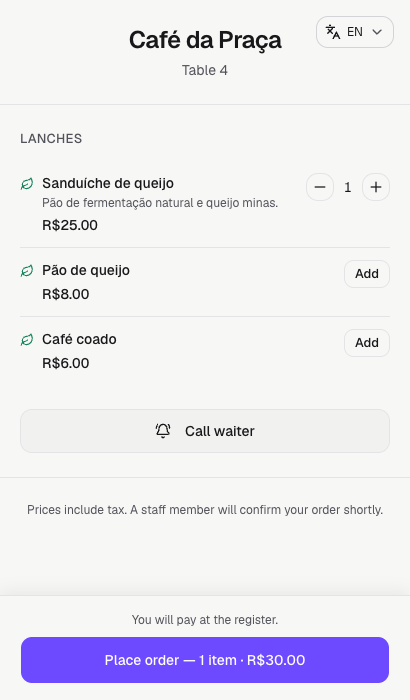
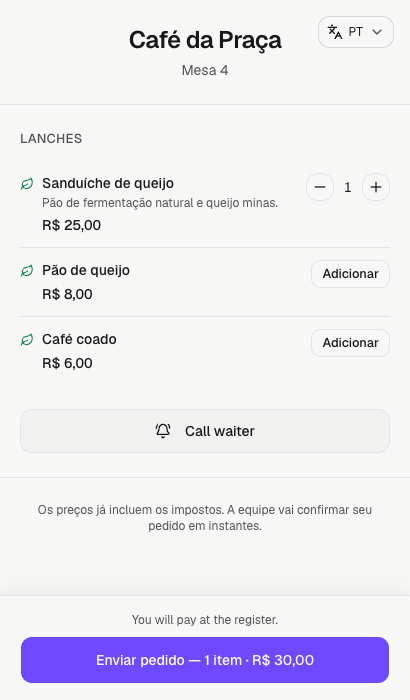
Format table QR prices in the guest’s selected language
The QR menu used the restaurant currency but fell back to English number formatting when a guest changed languages. Share the kiosk locale mapping and apply it to prices, add-ons and the cart total.

diff --git a/apps/web/app/order/[qrToken]/page.tsx b/apps/web/app/order/[qrToken]/page.tsx
@@ -12,6 +12,7 @@ import { Input } from "@/components/ui/input";
 import { Label } from "@/components/ui/label";
 import { Skeleton } from "@/components/ui/skeleton";
 import { useI18n } from "@/lib/i18n/context";
+import { LOCALE_TAGS } from "@/lib/i18n/locales";
 import { api, ApiError } from "@/lib/api";
 import { playSuccessChime, vibrateSuccess } from "@/lib/celebrate";
 import { formatCurrency } from "@/lib/format";
@@ -92,7 +93,7 @@ export default function PublicMenuPage({
   params: Promise<{ qrToken: string }>;
 }) {
   const { qrToken } = use(params);
-  const { t } = useI18n();
+  const { t, locale } = useI18n();
   const nameStorageKey = `qr-guest-name:${qrToken}`;
   const [cart, setCart] = useState<CartLine[]>([]);
   const [pickerItem, setPickerItem] = useState<PublicMenuItem | null>(null);
@@ -212,6 +213,7 @@ export default function PublicMenuPage({
     queryFn: () => api.get<PublicMenuResponse>(`/public/menu/${qrToken}`),
     retry: false,
   });
+  const formatPrice = (amount: number | string) => formatCurrency(amount, data?.currency, LOCALE_TAGS[locale]);
 
   // Live status of the table's tab and any pending waiter/bill request.
   const { data: status } = useQuery({
@@ -434,7 +436,7 @@ export default function PublicMenuPage({
                               </p>
                             )}
                             <span className="mt-1 block text-sm font-medium tabular-nums text-foreground">
-                              {formatCurrency(item.price, data.currency)}
+                              {formatPrice(item.price)}
                             </span>
                           </div>
                         </div>
@@ -575,7 +577,7 @@ export default function PublicMenuPage({
 
       <ModifierPickerDialog
         item={pickerItem}
-        currency={data?.currency}
+        formatPrice={formatPrice}
         open={!!pickerItem}
         onOpenChange={(open) => !open && setPickerItem(null)}
         onConfirm={(ids, label) => {
@@ -613,7 +615,7 @@ export default function PublicMenuPage({
             >
               {placeOrder.isPending
                 ? t("order.placingOrder")
-                : `${t("order.placeOrder")} — ${cartCount} ${cartCount > 1 ? t("order.items") : t("order.item")} · ${formatCurrency(cartTotal, data?.currency)}`}
+                : `${t("order.placeOrder")} — ${cartCount} ${cartCount > 1 ? t("order.items") : t("order.item")} · ${formatPrice(cartTotal)}`}
             </Button>
           </div>
           {placeOrder.isError && (

diff --git a/apps/web/components/pos/modifier-picker-dialog.tsx b/apps/web/components/pos/modifier-picker-dialog.tsx
@@ -51,12 +51,12 @@ function defaultSelection(item: PickerItem): Record<string, Set<string>> {
 // lint rules flag as an avoidable derived-state effect.
 function ModifierPickerBody({
   item,
-  currency,
+  formatPrice,
   allowCustom,
   onConfirm,
 }: {
   item: PickerItem;
-  currency?: string;
+  formatPrice: (amount: number | string) => string;
   allowCustom: boolean;
   onConfirm: (modifierIds: string[], modifierLabel: string, portion?: Portion) => void;
 }) {
@@ -150,7 +150,7 @@ function ModifierPickerBody({
                   <span>{opt.label}</span>
                   {opt.kind !== "CUSTOM" && prices[opt.kind] !== "" && (
                     <span className="text-xs font-normal tabular-nums text-muted-foreground">
-                      {formatCurrency(prices[opt.kind], currency)}
+                      {formatPrice(prices[opt.kind])}
                     </span>
                   )}
                 </button>
@@ -205,7 +205,7 @@ function ModifierPickerBody({
                     <span>{mod.name}</span>
                     {Number(mod.priceAdjustment) > 0 && (
                       <span className="text-xs text-muted-foreground">
-                        +{formatCurrency(mod.priceAdjustment, currency)}
+                        +{formatPrice(mod.priceAdjustment)}
                       </span>
                     )}
                   </button>
@@ -225,14 +225,14 @@ function ModifierPickerBody({
 
 export function ModifierPickerDialog({
   item,
-  currency,
+  formatPrice = formatCurrency,
   open,
   onOpenChange,
   onConfirm,
   allowCustom = false,
 }: {
   item: PickerItem | null;
-  currency?: string;
+  formatPrice?: (amount: number | string) => string;
   open: boolean;
   onOpenChange: (open: boolean) => void;
   onConfirm: (modifierIds: string[], modifierLabel: string, portion?: Portion) => void;
@@ -245,7 +245,7 @@ export function ModifierPickerDialog({
           <ModifierPickerBody
             key={item.id}
             item={item}
-            currency={currency}
+            formatPrice={formatPrice}
             allowCustom={allowCustom}
             onConfirm={(modifierIds, label, portion) => {
               onConfirm(modifierIds, label, portion);

diff --git a/apps/web/lib/format.test.ts b/apps/web/lib/format.test.ts
@@ -1,6 +1,7 @@
 import assert from "node:assert/strict";
 import { test } from "node:test";
 import { formatCurrency, setDefaultCurrency } from "./format.ts";
+import { LOCALE_TAGS } from "./i18n/locales.ts";
 
 test("formatCurrency follows the configured default currency", () => {
   try {
@@ -13,4 +14,12 @@ test("formatCurrency follows the configured default currency", () => {
   } finally {
     setDefaultCurrency("INR");
   }
+});
+
+test("guest prices follow the selected language and the restaurant currency", () => {
+  assert.match(formatCurrency(25, "BRL", LOCALE_TAGS.pt), /^R\$\s25,00$/);
+  assert.equal(formatCurrency(25, "BRL", LOCALE_TAGS.en), "R$25.00");
+  assert.match(formatCurrency(25, "EUR", LOCALE_TAGS.pt), /^€\s25,00$/);
+  assert.match(formatCurrency(25, "EUR", LOCALE_TAGS.es), /^25,00\s€$/);
+  assert.match(formatCurrency(25, "EUR", LOCALE_TAGS.fr), /^25,00\s€$/);
 });

diff --git a/apps/web/components/kiosk/kiosk-app.tsx b/apps/web/components/kiosk/kiosk-app.tsx
@@ -3,6 +3,7 @@
 import { useQuery } from "@tanstack/react-query";
 import { useCallback, useEffect, useReducer, useRef, useState } from "react";
 import { useI18n } from "@/lib/i18n/context";
+import { LOCALE_TAGS } from "@/lib/i18n/locales";
 import { formatCurrency } from "@/lib/format";
 import { KioskApiError, kioskApi } from "@/lib/kiosk-api";
 import { toOrderItems } from "@/lib/kiosk-basket";
@@ -51,7 +52,7 @@ export function KioskApp({ token }: { token: string }) {
         : { status: "unreachable" }
       : { status: "loading" };
 
-  const localeTag = { es: "es-ES", en: "en-GB", fr: "fr-FR", pt: "pt-BR" }[locale];
+  const localeTag = LOCALE_TAGS[locale];
   const fmt = useCallback(
     (n: number | string) => formatCurrency(n, menu?.currency ?? "EUR", localeTag),
     [menu?.currency, localeTag],

diff --git a/apps/web/lib/i18n/locales.ts b/apps/web/lib/i18n/locales.ts
@@ -2,6 +2,13 @@
 export const LOCALES = ["en", "es", "fr", "pt"] as const;
 export type Locale = (typeof LOCALES)[number];
 
+export const LOCALE_TAGS: Record<Locale, string> = {
+  en: "en-GB",
+  es: "es-ES",
+  fr: "fr-FR",
+  pt: "pt-BR",
+};
+
 export const LOCALE_LABELS: Record<Locale, string> = {
   en: "English",
   es: "Español",

diff --git a/docs/TPV-AND-TABLE-ORDERING.md b/docs/TPV-AND-TABLE-ORDERING.md
@@ -43,7 +43,7 @@ hardware arrives.
 ## The table journey and its states
 
 1. Each table has a QR code and an NFC card with the same link (Tables > Table cards; the page explains how to write the NFC card).
-2. The guest opens the web menu, enters a name, and chooses items. Prices, add-ons, and the cart total use the restaurant's configured currency. [Example order in Brazilian reais](./assets/qr-menu-brl.png).
+2. The guest opens the web menu, enters a name, and chooses items. Prices, add-ons, and the cart total use the restaurant's currency and the guest's selected language. For example, a BRL price shown as `R$25.00` in English appears as `R$ 25,00` in Brazilian Portuguese. Guests can switch languages with items in their cart. [Menu and cart in Portuguese](./assets/qr-menu-brl.png) · [Add-on price](./assets/qr-addon-pt-br.png).
 3. **Payment choice** (only if a gateway such as Stripe is switched on in Settings > Payments; otherwise cash only):
    * **Pay at the register**: the order goes to the kitchen **immediately** and stays **unpaid** ("Cash due at register" badge in Orders)
      until staff record the cash at the till.
